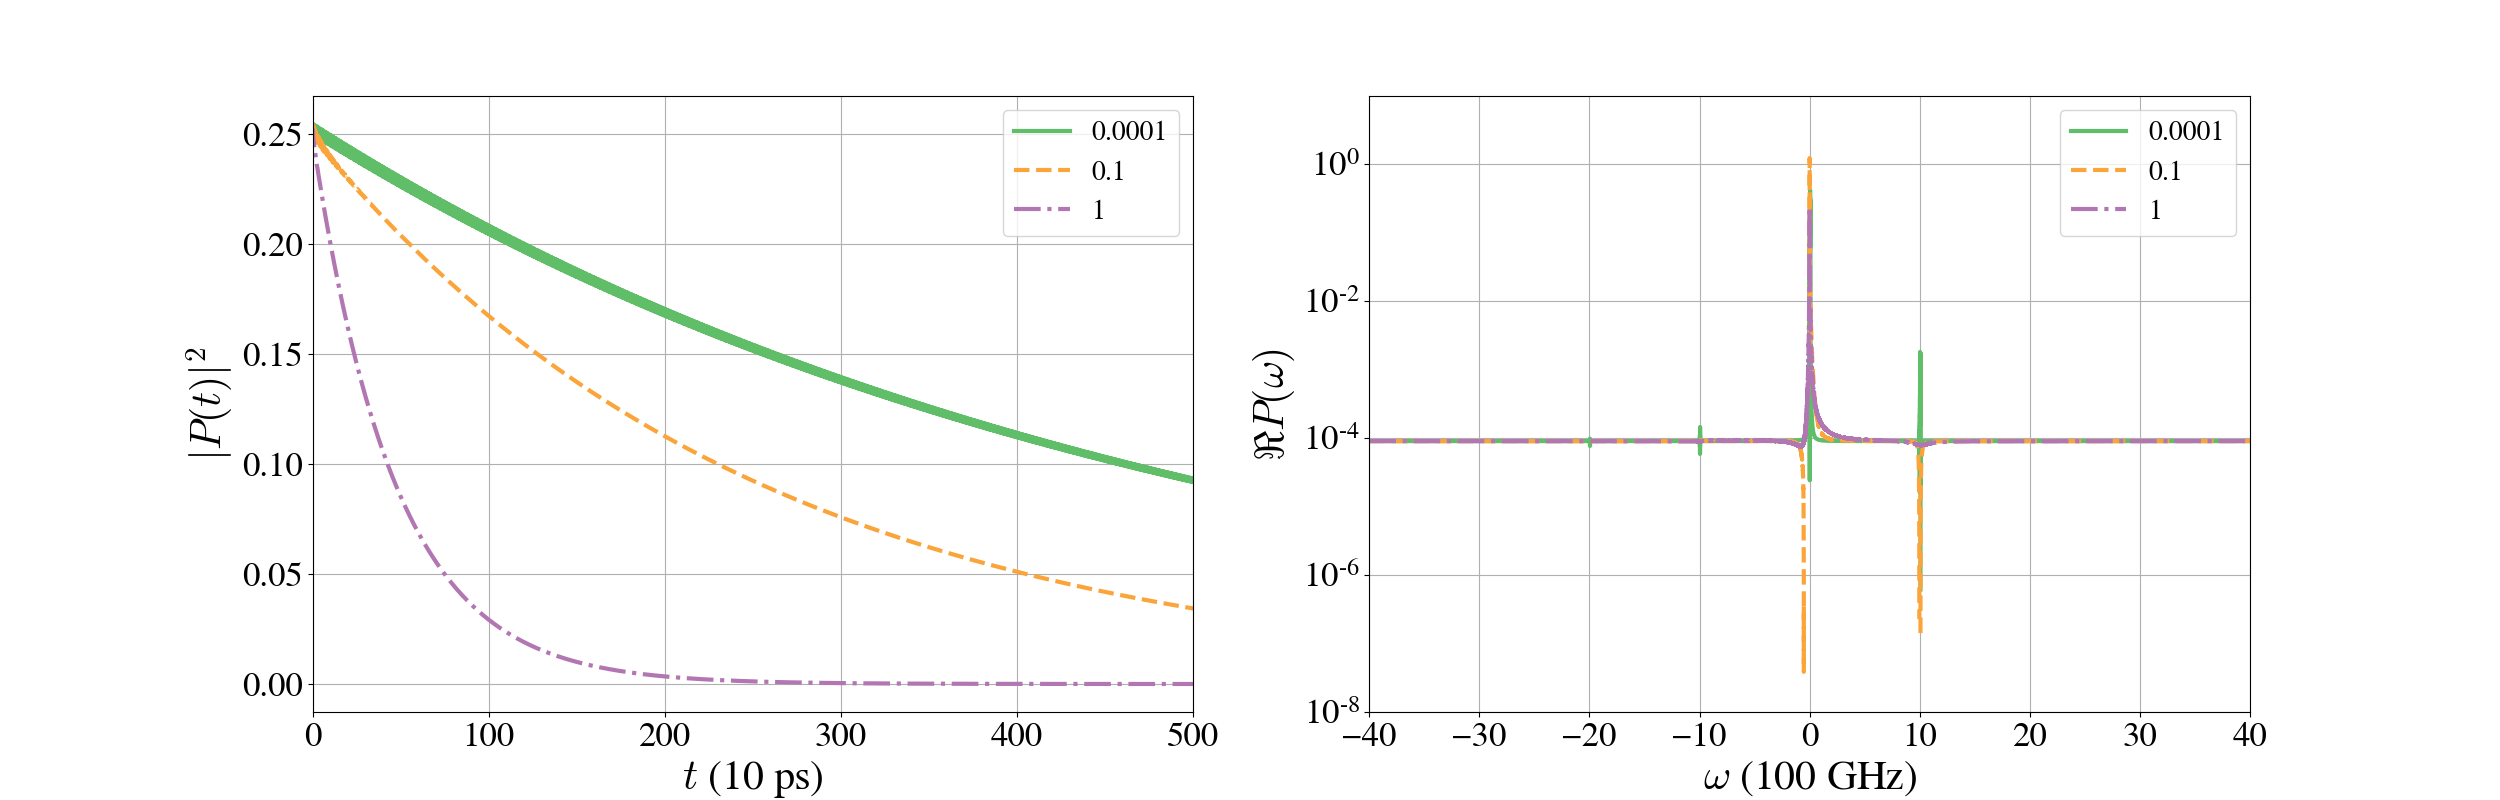
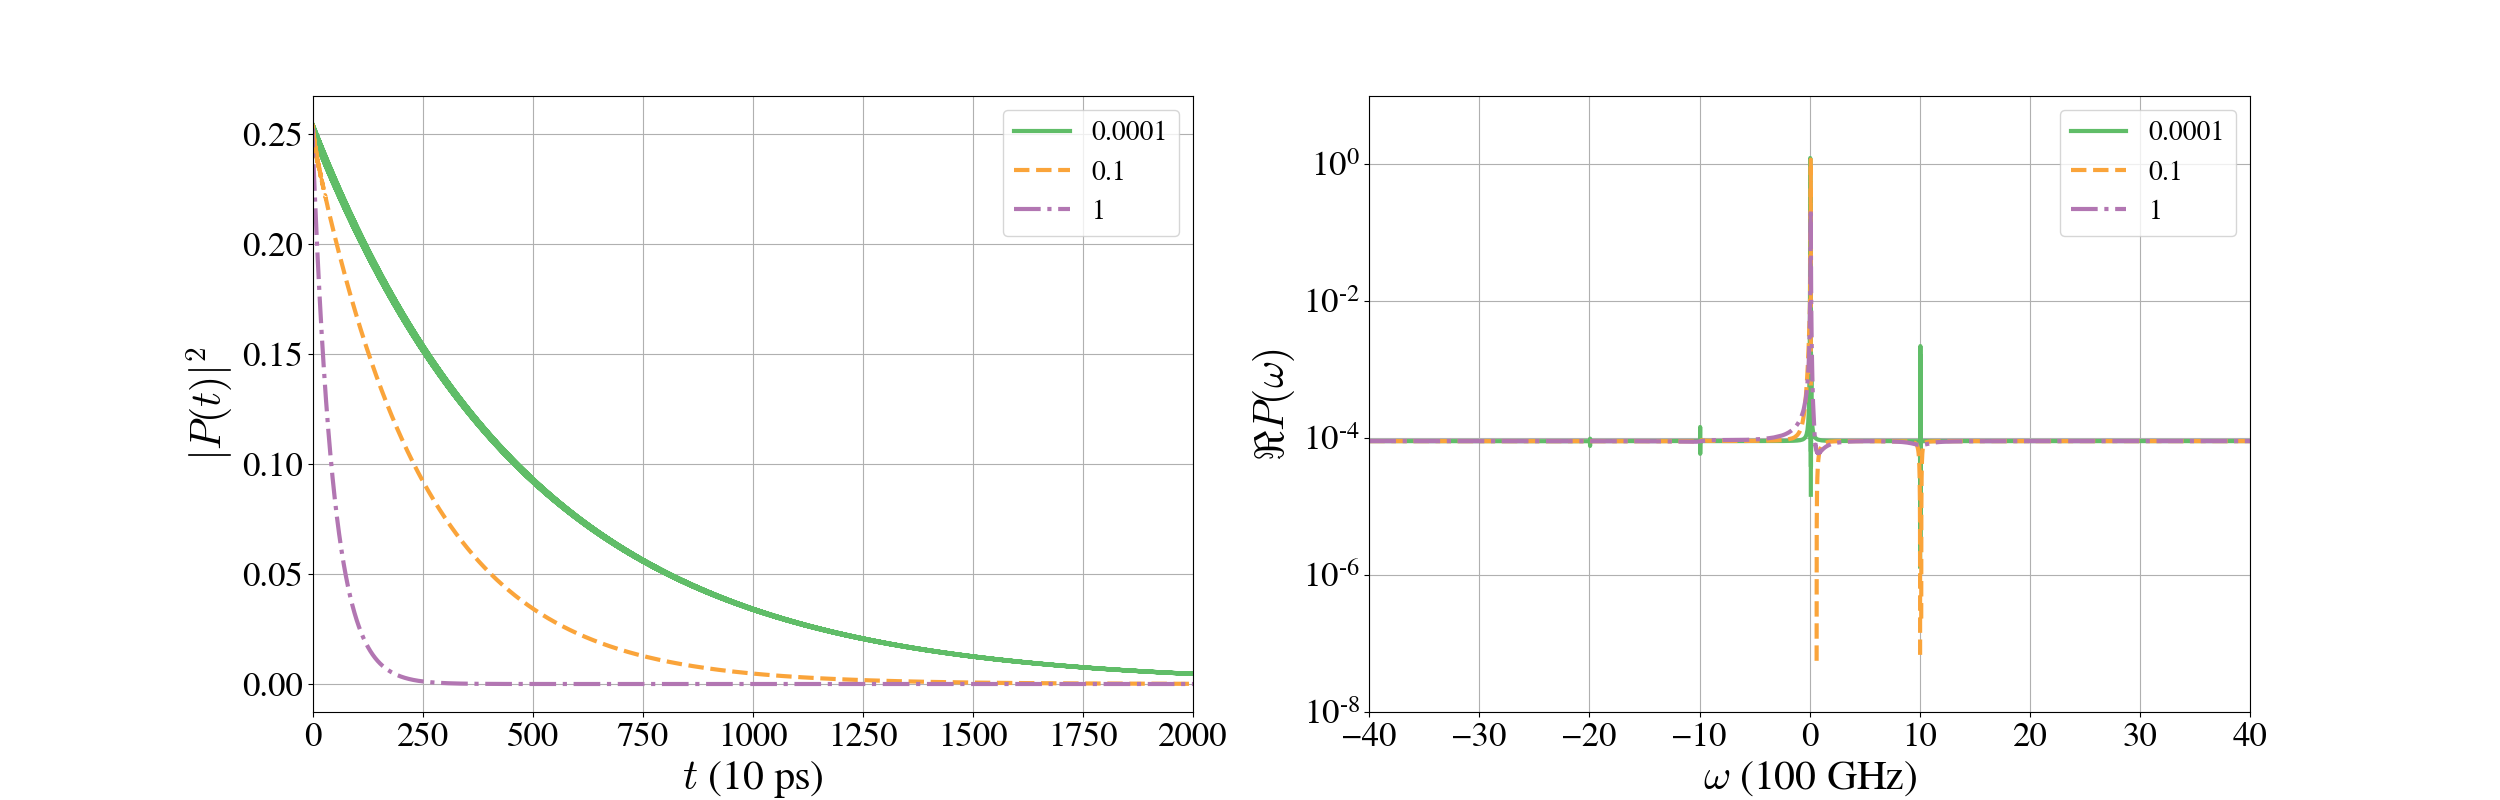
missing term fixed

diff --git a/fbm_Fock-therm_numeric.py b/fbm_Fock-therm_numeric.py
@@ -27,42 +27,28 @@ def rho_nodamp_T(D, gamma, oma,nd, t):
 def rho_nodamp_F(D, gamma, oma,nd, t):
 	return (1+D**2/oma**2*2*(1-np.cos(oma*t)))*np.exp(-D**2/oma**2*( (1-np.cos(oma*t))+1j*np.sin(oma*t)-1j*oma*t) )*.5*np.exp(-gamma*t)
 
-def rho_d(gd, gam, oma, kappa, nd, endt, Nt, k, therm, Fock):
+def rho_d(gd, gam, oma, kappa, nd, dt, Nt, k, dk, therm, Fock):
 
-	dt  = (endt)/(Nt-1)
-	dk  = k[1]-k[0]
-	c    = 0.003
-	g02  = kappa*2*c/np.pi
-	B    = 1j*oma + kappa
-	coef = np.abs(gd/B)**2
-	
 	#################
 	### |N_d^k|^2 ###
 	#################
 	def Nd2k(k,ex,Ca,Sa,Ck,Sk,Cak,Sak):
 
-		cof = coef*g02/(c*k)**2
-		den = 1/(kappa**2+(oma-c*k)**2)
-		A2  = (c*k)**2 * (2*Ca-ex) * ex
-		B2  = (kappa**2+oma**2) * (2*Ck-1)
-		AB  = oma*(Ck+(Ca-Cak)*ex) + kappa*(-Sk+(Sa-Sak)*ex)
+		A2  = 2*dc**2*(1-Ck)
+		B2  = dB * ( ex**2 + 1 - 2*Ca*ex )
+		AB  = -2*dc*dB*( kappa* ( (Sak-Sa)*ex+Sk ) + oma* ( (Cak-Ca)*ex-Ck+1 ) )
 
-		return cof * ( 1 - den*(A2 + B2 - 2*c*k*AB) )
+		return coef2 * ( A2 + B2 + AB )
 
 	def phif(k,ex,Ca,Sa,Ck,Sk,Cak,Sak):
 
-		den = 1/np.abs(B-1j*c*k)**2
-		Ck  = np.cos(c*k*t)
-		Sk  = np.sin(c*k*t)
-		dc  = 1/(c*k)
-		dB  = 1/np.abs(B)**2 
-		t1  = -dc**2*(c*k*t-Sk)
-		t2  = dB * ( dc*(kappa*Sk-oma*Ck-(kappa*Sa+oma*Ca)*ex) \
-			     +Sa*ex - oma/(2*kappa)*(1-ex) )
-		t3  = den*( dc * ( kappa+(kappa*Sak + (oma-c*k)*Cak)*ex ) +\
-			    dB * ( kappa*(2*oma-c*k)*(1-Cak*ex) - (kappa**2-oma*(oma-c*k))*Sak ) )
-		
-		return g02*gd**2*den * (t1+t2+t3)
+		Cc  = kappa*(1-Cak*ex)
+		t1  = -oma/(2*kappa) * dB * (1-ex**2)
+		t2  = dc*dB*( (kappa*Ca-(oma-c*k)*Sa)*ex - oma*Sk - kappa*Ck )
+		t3  = dB*den*( (2*oma-c*k)*Cc - (kappa**2-oma*(oma-c*k))*Sak*ex )
+		t4  = dc*den*(Cc+(oma-c*k)*Sak*ex) 
+		t5  = dc**2 * (Sk-c*k*t)
+		return coef2 * (t1+t2+t3+t4+t5)
 
 	nk = 1/(np.exp(therm*c*np.abs(k))-1)
 	
@@ -78,8 +64,8 @@ def rho_d(gd, gam, oma, kappa, nd, endt, Nt, k, therm, Fock):
 		Sa   = np.sin(oma*t)
 		Ck   = np.cos(c*k*t)
 		Sk   = np.sin(c*k*t)
-		Cak  = Ca*Ck+Sa*Sk
-		Sak  = Sa*Ck - Ca*Sk
+		Cak = Ca*Ck+Sa*Sk
+		Sak = Sa*Ck-Ca*Sk
 		Fg   = coef * ( Sa*ex + oma/(2*kappa)*(ex**2-1) )	
 		
 		gamma2  = coef * ( 1 + ex**2 - 2*ex*Ca ) #|gamma|^2
@@ -98,25 +84,30 @@ def rho_d(gd, gam, oma, kappa, nd, endt, Nt, k, therm, Fock):
 ##################	
 ### PARAMETERS ###
 ##################
-Fock   = False
+Fock   = True
 show   = False
 
-D      = .7
+gd     = .7
 oma    = 10 #in GHz
 kappav = np.array([0.0001,0.1,1])  #in GHz
 gam    = 0.001 #in GHz
 hbar   = 6.62607004 
 kb     = 1.38064852
-T      = 3000.#00001
+T      = 0.00001
+c      = 0.003
 nd     = 1./(np.exp(hbar*oma/kb/T)-1)
 endt   = 20000.
-Nt     = 2**14
+Nt     = 2**18
 t      = np.linspace(0,endt,Nt)
+dt     = (endt)/(Nt-1)
 endk   = 5000.
-Nk     = 10000
+Nk     = 20000
 ome    = 0.
 k      = np.linspace(-endk,endk,Nk)# + ome*100.
+dk     = k[1]-k[0]
+dc     = 1/(c*k)
 therm  = hbar/(kb*T)
+
 
 ################
 ### PLOTTING ###
@@ -137,9 +128,9 @@ linest = ['-','--','-.',':']
 fig,ax = plt.subplots(1,2,figsize=(25,8))
 
 if Fock==True:
-	rho_norm = rho_nodamp_F(D,gam,oma, nd,t)
+	rho_norm = rho_nodamp_F(gd,gam,oma, nd,t)
 else:
-	rho_norm = rho_nodamp_T(D,gam,oma, nd,t)
+	rho_norm = rho_nodamp_T(gd,gam,oma, nd,t)
 norm = np.abs(np.sum(rho_norm*2*endt/(Nt)))**2
 
 for i in range(0,kappav.size):
@@ -149,10 +140,17 @@ for i in range(0,kappav.size):
 	print("kappa is: ",kappav[i])
 	sys.stdout.flush()	
 
+	g02   = kappa*2*c/np.pi
+	B     = 1j*oma + kappa
+	den   = 1/(kappa**2+(oma-c*k)**2)
+	coef2 = g02*gd**2*den
+	dB    = 1/(kappa**2+oma**2)
+	coef  = gd**2*dB
+
 	#################################################
 	### EVALUATION OF THE TIME-DEPENDENT SOLUTION ###
 	#################################################
-	rho_wn=rho_d(D,gam,oma,kappa,nd,endt,Nt,k,therm,Fock)
+	rho_wn=rho_d(gd,gam,oma,kappa,nd,dt,Nt,k,dk,therm,Fock)
 	evol = rho_wn/np.sqrt(norm)
 	ax[0].plot(t,np.abs(rho_wn)**2,color=colors[collab[i]],ls=linest[i],lw=linew[0])
 	now2 = time.time()
@@ -192,7 +190,7 @@ ax[1].set_xlabel('$\omega$ (100 GHz)',fontsize=30)
 ax[0].set_ylabel('$\left|P(t)\\right|^2$',fontsize=30)
 ax[1].set_ylabel('$\Re{P(\omega)}$',fontsize=30)
 #ax[0].set_ylim(-0.01,.25)
-ax[0].set_xlim(0,200)
+ax[0].set_xlim(0,2000)
 ax[1].set_ylim(10**(-8),10)
 ax[1].set_xlim(-40,40)
 
@@ -210,8 +208,8 @@ if show==True:
 	plt.show()
 else:
 	if Fock==True:
-		plt.savefig("/home/niki/Dokumente/Python/Numerical plots/numeric2_kend=5000_therm_T=0_Fock1_s.png")
+		plt.savefig("/home/niki/Dokumente/Python/Numerical plots/numeric2_kend=5000_therm_T=0_Fock1.png")
 	else:
-		plt.savefig("/home/niki/Dokumente/Python/Numerical plots/numeric2_kend=5000_therm_T=%d_wide_s.png" % T)
+		plt.savefig("/home/niki/Dokumente/Python/Numerical plots/numeric2_kend=5000_therm_T=%d_wide.png" % T)
 
 

diff --git a/fbm_damped_analytic2.py b/fbm_damped_analytic2.py
@@ -22,7 +22,7 @@ def rho_damp_T(D, gamma, oma, kappa, nd, t):
 	B    = 1j*oma + kappa
 	dBa2 = 1/(oma**2 + kappa**2)
 
-	return np.exp(- D**2 * dBa2 * ( nd*(1+np.exp(-2*kappa*t)) + .5*(3-np.exp(-2*kappa*t)) + 1j*(oma**2-3*kappa**2)*dBa2*np.sin(oma*t)*np.exp(-kappa*t) - np.exp(-kappa*t)*np.cos(oma*t)*(1+2*nd+1j*4*oma*kappa*dBa2) - 1j*oma/2/kappa*(1-np.exp(-2*kappa*t)) + 2*kappa*t + 2*kappa*dBa2*(-2*np.conjugate(B)+ B*np.exp(-np.conjugate(B)*t) + np.conjugate(B)*np.exp(-B*t))))* np.exp(-gamma*t)*.5
+	return np.exp(- D**2 * dBa2 * ( nd*(1+np.exp(-2*kappa*t)) + .5*(3-np.exp(-2*kappa*t)) + 1j*(oma**2-3*kappa**2)*dBa2*np.sin(oma*t)*np.exp(-kappa*t) - np.exp(-kappa*t)*np.cos(oma*t)*(1+2*nd+1j*4*oma*kappa*dBa2) + 1j*oma/2/kappa*(1-np.exp(-2*kappa*t)) + 2*np.conjugate(B)*t + 2*kappa*dBa2*(-2*np.conjugate(B)+ B*np.exp(-np.conjugate(B)*t) + np.conjugate(B)*np.exp(-B*t))))* np.exp(-gamma*t)*.5
 #	return np.exp(-D**2*dBa2*(.5*(1-1j*oma/kappa)*(1-np.exp(-2*kappa*t))+1j*np.exp(-kappa*t)*np.sin(oma*t)-np.exp(-kappa*t)*np.cos(oma*t)-dBa2*(oma**2-3*kappa**2+2*kappa*(B*np.exp(-np.conjugate(B)*t)+np.conjugate(B)*np.exp(-B*t)))))*.5*np.exp(-gamma*t)
 
 def rho_damp_F(D, gamma, oma, kappa, nd, t):
@@ -32,7 +32,7 @@ def rho_damp_F(D, gamma, oma, kappa, nd, t):
 
 	return (1 + D**2*dBa2*( 1+np.exp(-2*kappa*t)-np.exp(-kappa*t)*2*np.cos(oma*t) )) * \
 	np.exp(- D**2 * dBa2 * ( .5*(3-np.exp(-2*kappa*t)) + 1j*(oma**2-3*kappa**2)*dBa2*np.sin(oma*t)*np.exp(-kappa*t) - \
-	np.exp(-kappa*t)*np.cos(oma*t)*1j*4*oma*kappa*dBa2 - 1j*oma/2/kappa*(1-np.exp(-2*kappa*t)) + 2*kappa*t + \
+	np.exp(-kappa*t)*np.cos(oma*t)*(1+1j*4*oma*kappa*dBa2) + 1j*oma/2/kappa*(1-np.exp(-2*kappa*t)) + 2*np.conjugate(B)*t + \
 	2*kappa*dBa2*(-2*np.conjugate(B)+ B*np.exp(-np.conjugate(B)*t) + np.conjugate(B)*np.exp(-B*t))))* np.exp(-gamma*t)*.5
 
 def rho_nodamp_T(D, gamma, oma,nd, t):
@@ -131,8 +131,8 @@ ax[0].set_ylabel('$\left|P(t)\\right|^2$',fontsize=30)
 ax[1].set_ylabel('$\Re{P(\omega)}$',fontsize=30)
 #ax[2].set_ylabel('$|P(\omega)|^2$',fontsize=30)
 #ax[0].set_ylim(-0.01,.25)
-#ax[0].set_xlim(0,2000)
-ax[0].set_xlim(0,200)
+ax[0].set_xlim(0,2000)
+#ax[0].set_xlim(0,200)
 ax[1].set_xlim(-40,40)
 ax[1].set_ylim(10**(-8),10)
 #ax[2].set_ylim(10**(-4),10**4)
@@ -149,17 +149,17 @@ if show==True:
 else:
 	if damp==True:
 		if Fock==True:
-#			plt.savefig("/home/niki/Dokumente/Python/Analytic plots/analytic_damp_evol+spec_Fock.png")
-			plt.savefig("/home/niki/Dokumente/Python/Analytic plots/analytic_damp_evol+spec_Fock_s.png")
+			plt.savefig("/home/niki/Dokumente/Python/Analytic plots/analytic_damp_evol+spec_Fock.png")
+#			plt.savefig("/home/niki/Dokumente/Python/Analytic plots/analytic_damp_evol+spec_Fock_s.png")
 		else:
-#			plt.savefig("/home/niki/Dokumente/Python/Analytic plots/analytic_damp_evol+spec_T=0.png")
-			plt.savefig("/home/niki/Dokumente/Python/Analytic plots/analytic_damp_evol+spec_T=0_s.png")
+			plt.savefig("/home/niki/Dokumente/Python/Analytic plots/analytic_damp_evol+spec_T=0.png")
+#			plt.savefig("/home/niki/Dokumente/Python/Analytic plots/analytic_damp_evol+spec_T=0_s.png")
 	else:
 		if Fock==True:
-#			plt.savefig("/home/niki/Dokumente/Python/Analytic plots/analytic_nodamp_evol+spec_Fock.png")
-			plt.savefig("/home/niki/Dokumente/Python/Analytic plots/analytic_nodamp_evol+spec_Fock_s.png")
+			plt.savefig("/home/niki/Dokumente/Python/Analytic plots/analytic_nodamp_evol+spec_Fock.png")
+#			plt.savefig("/home/niki/Dokumente/Python/Analytic plots/analytic_nodamp_evol+spec_Fock_s.png")
 		else:
-#			plt.savefig("/home/niki/Dokumente/Python/Analytic plots/analytic_nodamp_evol+spec_T=0.png")
-			plt.savefig("/home/niki/Dokumente/Python/Analytic plots/analytic_nodamp_evol+spec_T=0_s.png")
+			plt.savefig("/home/niki/Dokumente/Python/Analytic plots/analytic_nodamp_evol+spec_T=0.png")
+#			plt.savefig("/home/niki/Dokumente/Python/Analytic plots/analytic_nodamp_evol+spec_T=0_s.png")
 
 
